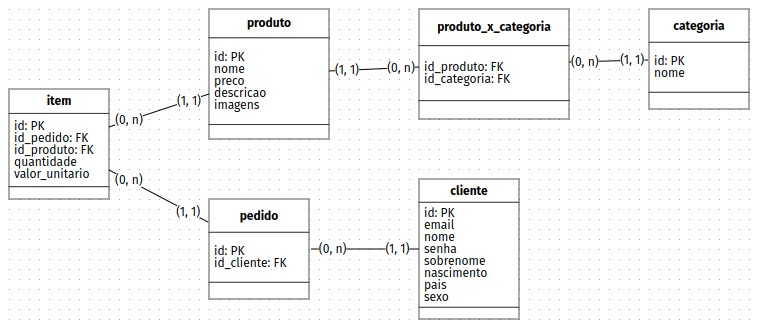
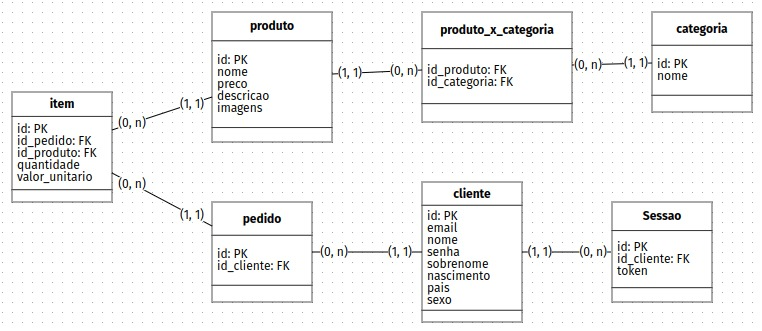
feats: adicionando entidade relacionais, inicio do desenvolvimento da api de cadastro e ajustes no banco

diff --git a/src/views/cadastro/post/post.py b/src/views/cadastro/post/post.py
@@ -1,8 +1,17 @@
 from ....decorators.validar_request import Validar_Request
+from typing import Dict
+from flask import request
+from ....banco.banco import Banco
+from datetime import datetime
 
 
 class Post():
-    
+    banco: Banco
+
+
+    def __init__(self) -> None:
+        self.banco = Banco()
+
 
     @Validar_Request({
         'data': {
@@ -20,5 +29,41 @@ class Post():
         }
     })
     def handle_request(self):
+        try:
+            assert self.banco.conectar() == True
+        except Exception as e:
+            return {"menssagem": "erro"}, 500
+            
+        req_json: Dict[str, any] = request.get_json().get("data")
+        conexao = self.banco.get_conexao()
+
+        try:
+            assert conexao
+        except Exception as e:
+            return {"menssagem": "erro"}, 500
+        
+
+        nascimento = datetime.strptime(req_json.get("nascimento"), "%d/%m/%Y")
+        query = f"""
+            INSERT INTO cliente(
+                nome, sobrenome,
+                email, senha,
+                pais, sexo,
+                nascimento
+            ) 
+            values(
+                "{req_json.get("nome")}", "{req_json.get("sobrenome")}",
+                "{req_json.get("email")}", "{req_json.get("senha")}",
+                "{req_json.get("pais")}", "{req_json.get("sexo")}",
+                "{nascimento.strftime("%Y-%m-%d")}"
+            );
+        """
+        res = self.banco.execultar(query)
+
+        try:
+            assert self.banco.desconectar() == True
+        except Exception as e:
+            return {"menssagem": "erro"}, 500
+        
         return {"menssagem": "ok"}, 200
 

diff --git a/src/banco/banco.py b/src/banco/banco.py
@@ -1,0 +1,39 @@
+import mysql
+from mysql.connector import MySQLConnection
+from os import getenv
+
+
+class Banco():
+    conexao: MySQLConnection
+    
+
+    def conectar(self) -> bool:
+        try:
+            self.conexao = mysql.connector.connect(
+                host=getenv("DB_HOST"), database=getenv("DB"), user=getenv("DB_USUARIO"), password=getenv("DB_SENHA")
+            )
+            return True
+        except Exception as e:
+            return False
+    
+
+    def get_conexao(self) -> MySQLConnection | bool:
+        if not self.conexao: return False
+        return self.conexao
+
+
+    def execultar(self, comando: str):
+        cursor = self.conexao.cursor()
+        cursor.execute(comando)
+        res = cursor.fetchall()
+        self.conexao.commit()
+        return res
+            
+    
+    def desconectar(self) -> bool:
+        try:
+            self.conexao.close()
+            return True
+        except Exception as e:
+            return False
+        

diff --git a/src/entidades_relacionais/cliente.py b/src/entidades_relacionais/cliente.py
@@ -1,0 +1,23 @@
+from datetime import datetime
+
+
+class Cliente:
+    id: int
+    nome: str
+    sobrenome: str
+    email: str
+    senha: str
+    nascimento: datetime
+    pais: str
+    sexo: str
+
+
+    def __init__(self, id: int, nome: str, sobrenome: str, email: str, senha: str, nascimento: datetime, pais: str, sexo: str):
+        self.id = id
+        self.nome = nome
+        self.sobrenome = sobrenome
+        self.email = email
+        self.senha = senha
+        self.nascimento = nascimento
+        self.pais = pais
+        self.sexo = sexo

diff --git a/src/entidades_relacionais/item.py b/src/entidades_relacionais/item.py
@@ -1,0 +1,16 @@
+
+
+class Item():
+    id: int
+    quantidade: int
+    valor_unitario: float
+    id_pedido: int
+    id_produto: int
+
+
+    def __init__(self, id: int, quantidade: int, valor_unitario: float, id_pedido: int, id_produto: int) -> None:
+        self.id = id
+        self.quantidade = quantidade
+        self.valor_unitario = valor_unitario
+        self.id_pedido = id_pedido
+        self.id_produto = id_produto

diff --git a/src/entidades_relacionais/produto.py b/src/entidades_relacionais/produto.py
@@ -1,0 +1,16 @@
+
+
+class Produto():
+    id: int
+    nome: str
+    preco: float
+    descricao: str
+    imagens: str
+
+
+    def __init__(self, id: int, nome: str, preco: float, descricao: str, imagens: str) -> None:
+        self.id = id
+        self.nome = nome
+        self.preco = preco
+        self.descricao = descricao
+        self.imagens = imagens

diff --git a/src/entidades_relacionais/produto_x_categoria.py b/src/entidades_relacionais/produto_x_categoria.py
@@ -1,0 +1,12 @@
+
+
+class Pedido():
+    id: int
+    id_produto: int
+    id_categoria: int
+
+
+    def __init__(self, id: int, id_produto: int, id_categoria: int) -> None:
+        self.id = id
+        self.id_produto = id_produto
+        self.id_categoria = id_categoria

diff --git a/app.py b/app.py
@@ -1,6 +1,7 @@
 from flask import Flask
 from flask_cors import CORS
 from src.views.views_list import View_List
+from dotenv import load_dotenv
 
 
 class App():
@@ -24,4 +25,5 @@ class App():
 
 
 if __name__ == "__main__":
+    load_dotenv()
     App()

diff --git a/src/entidades_relacionais/sessao.py b/src/entidades_relacionais/sessao.py
@@ -1,0 +1,12 @@
+
+
+class Produto():
+    id: int
+    token: str
+    id_cliente: int
+
+
+    def __init__(self, id: int, token: str, id_cliente: float) -> None:
+        self.id = id
+        self.token = token
+        self.id_cliente = id_cliente

diff --git a/src/entidades_relacionais/pedido.py b/src/entidades_relacionais/pedido.py
@@ -1,0 +1,10 @@
+
+
+class Pedido():
+    id: int
+    id_cliente: int
+
+
+    def __init__(self, id: int, id_cliente: int) -> None:
+        self.id = id
+        self.id_cliente = id_cliente

diff --git a/src/entidades_relacionais/categoria.py b/src/entidades_relacionais/categoria.py
@@ -1,0 +1,10 @@
+
+
+class Categoria():
+    id: int
+    nome: str
+
+
+    def __init__(self, id: int, nome: str) -> None:
+        self.id = id
+        self.nome = nome
